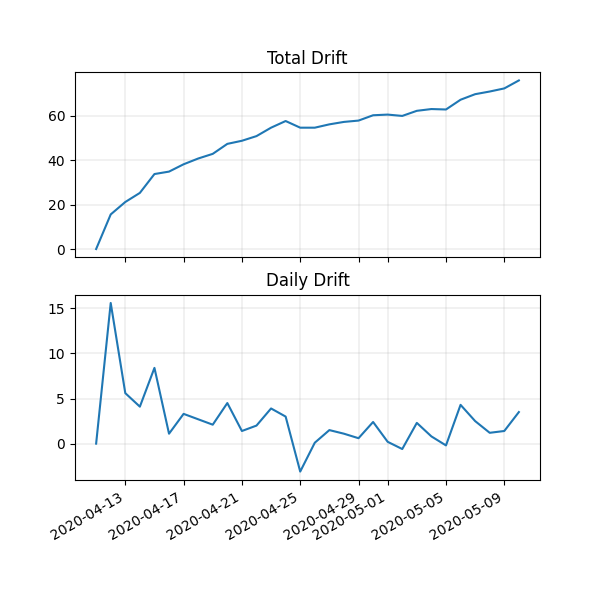
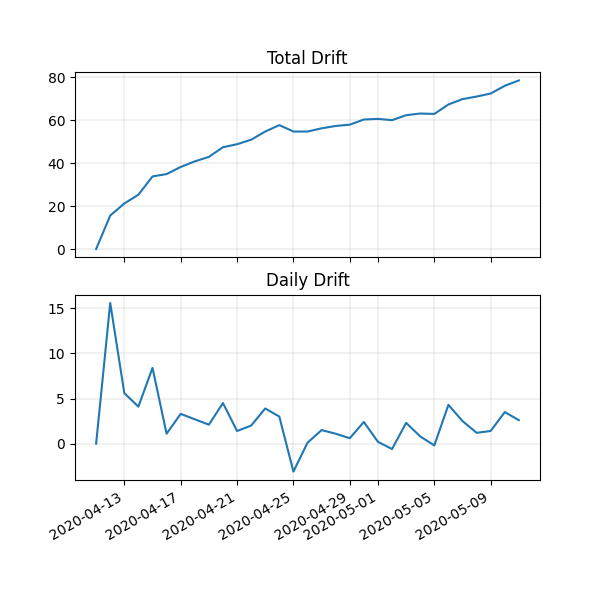
Mon May 11 15:30:14 EDT 2020

diff --git a/README.md b/README.md
@@ -1,10 +1,11 @@
 # MMR Drift Status
 
-**Last Updated (UTC):** 2020-05-10 21:15:13.660736
+**Last Updated (UTC):** 2020-05-11 19:30:13.539995
 ![Figure 1](/images/fig1.png)
 ![Figure 2](/images/fig2.png)
 |date| min| max| mean| drift_daily| drift_total| median| stdev|
 |:---|:---|:---|:---|:---|:---|:---|:--- |
+|11-May-2020| 3035| 3244| 3073.2| 2.6| 78.5| 3061.0| 36.8|
 |10-May-2020| 3031| 3244| 3070.6| 3.5| 76.0| 3057.0| 37.9|
 |09-May-2020| 3028| 3244| 3067.0| 1.4| 72.4| 3055.0| 38.1|
 |08-May-2020| 3026| 3244| 3065.6| 1.2| 71.0| 3054.0| 36.9|
